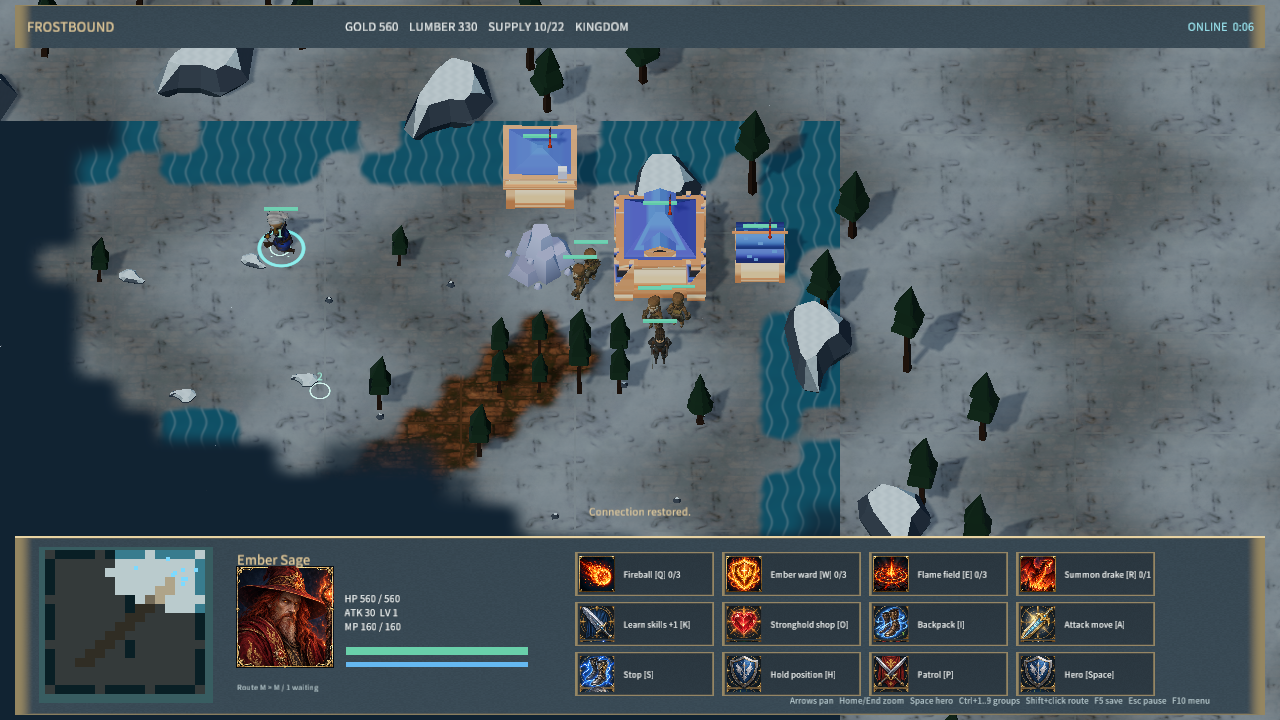
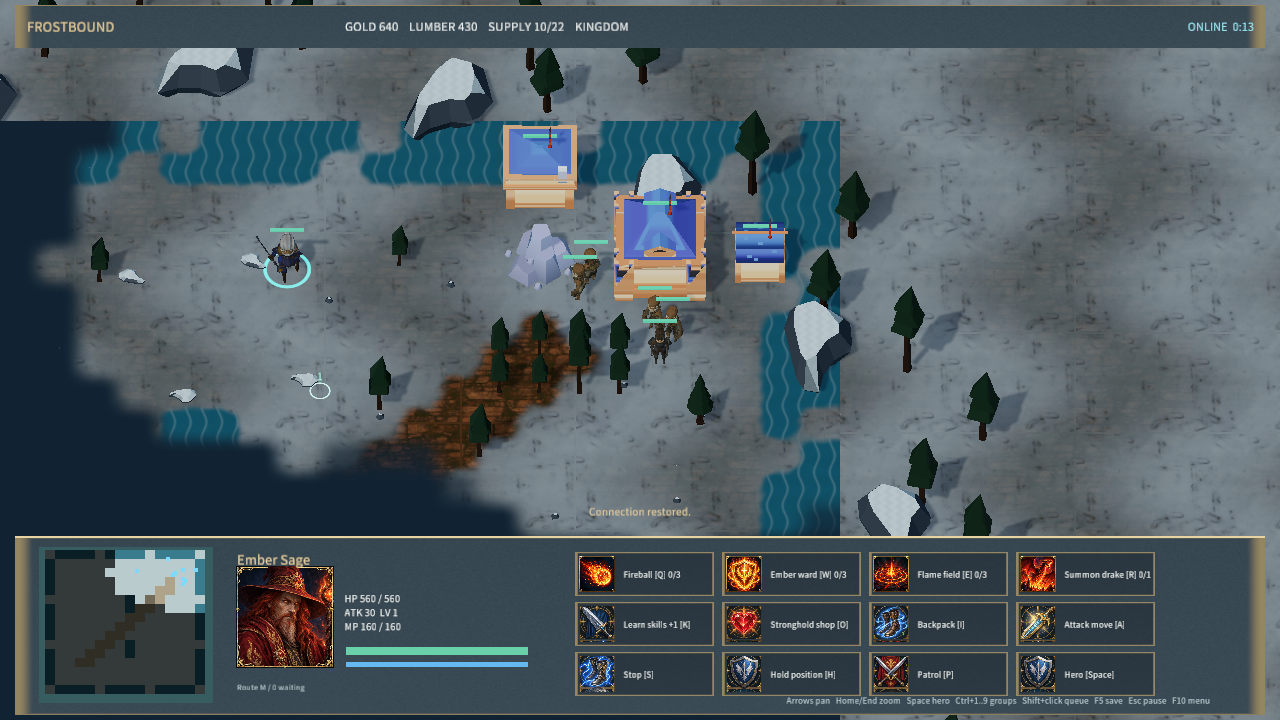
feat(frostbound): queue worker construction and gathering jobs

diff --git a/samples/frostbound-realms/game/simulation.js b/samples/frostbound-realms/game/simulation.js
@@ -222,13 +222,16 @@ var Frost = (() => {
   }
   function movementRadius(u){return types[u.kind].flying?1:types[u.kind].attack==='siege'?.9:types[u.kind].model==='knight'?.7:.5;}
   // ponytail: each selected unit scans the 32x32 grid (max 40); share reachability fields when maps grow.
+  function orderPoint(s,u,o){return o?.type==='gather'?s.resources[o.resource]||u:['construct','repair'].includes(o?.type)?s.units.find(b=>b.id===o.target)||u:Number.isFinite(o?.x)&&Number.isFinite(o?.z)?o:u;}
+  function queueable(u,o){return ['move','attackMove'].includes(o?.type)||u.kind==='worker'&&['build','construct','repair','gather'].includes(o?.type);}
+  function queueError(us){return us.some(u=>u.consumed||u.order&&!queueable(u,u.order))?'Finish this order before queuing work':us.some(u=>(u.waypoints?.length||0)>=8)?'Waypoint queue is full (8 waiting)':null;}
   function formation(s,units,x,z,append=false){
     const orders=new Map();
     for(const flying of [false,true]){
-      const members=units.filter(u=>!!types[u.kind].flying===flying).map(u=>{const p=append&&(u.waypoints?.at(-1)||u.order);return p?{...u,x:p.x,z:p.z}:u;});if(!members.length)continue;
+      const members=units.filter(u=>!!types[u.kind].flying===flying).map(u=>{const p=append&&orderPoint(s,u,u.waypoints?.at(-1)||u.order);return p?{...u,x:p.x,z:p.z}:u;});if(!members.length)continue;
       const cx=members.reduce((n,u)=>n+u.x,0)/members.length,cz=members.reduce((n,u)=>n+u.z,0)/members.length,d=Math.hypot(x-cx,z-cz),fx=d>.01?(x-cx)/d:0,fz=d>.01?(z-cz)/d:-1,columns=Math.ceil(Math.sqrt(members.length)),rows=Math.ceil(members.length/columns),spacing=Math.max(...members.map(movementRadius))*2+.6;
       members.sort((a,b)=>unitType(a).range-unitType(b).range||Math.round((((b.x-cx)*fx+(b.z-cz)*fz)-((a.x-cx)*fx+(a.z-cz)*fz))*1e6)||a.id-b.id);
-      const reserved=s.units.filter(u=>u.hp>0&&!u.inside&&u.speed&&u.team===members[0].team&&!units.some(v=>v.id===u.id)&&!!types[u.kind].flying===flying).map(u=>{const p=u.waypoints?.at(-1)||(['move','attackMove','patrol'].includes(u.order?.type)?u.order:u);return {x:p.x,z:p.z,r:movementRadius(u)};});
+      const reserved=s.units.filter(u=>u.hp>0&&!u.inside&&u.speed&&u.team===members[0].team&&!units.some(v=>v.id===u.id)&&!!types[u.kind].flying===flying).map(u=>{const p=orderPoint(s,u,u.waypoints?.at(-1)||(['move','attackMove','patrol'].includes(u.order?.type)?u.order:u));return {x:p.x,z:p.z,r:movementRadius(u)};});
       for(let i=0;i<members.length;i++){
         const u=members[i],row=Math.floor(i/columns),width=Math.min(columns,members.length-row*columns),side=(i%columns-(width-1)/2)*spacing,forward=((rows-1)/2-row)*spacing,ideal=[clamp(x+fz*side+fx*forward,-30,30),clamp(z-fx*side+fz*forward,-30,30)],r=movementRadius(u),search=flying?null:routeSearch(s,u),cells=flying?Array.from({length:1024},(_,j)=>j):search.cells;
         const available=(px,pz)=>Math.abs(px)<=30&&Math.abs(pz)<=30&&(flying||!solid(s,px,pz,u.id,u.team))&&reserved.every(v=>Math.hypot(px-v.x,pz-v.z)>=r+v.r+.3);
@@ -308,16 +311,15 @@ var Frost = (() => {
   function pay(s,team,gold,wood=0){const t=s.teams[team];if(!t||t.gold<gold||t.wood<wood)return false;t.gold-=gold;t.wood-=wood;return true;}
   function command(s,team,c){
     if(s.winner!==null||!c||![0,1].includes(team))return 'Match is finished';
-    if(c.append!==undefined&&typeof c.append!=='boolean'||c.append&&!['move','attackMove'].includes(c.type))return 'Only movement orders can be queued';
-    const own=s.units.filter(u=>u.team===team&&u.hp>0&&!u.inside&&Array.isArray(c.ids)&&c.ids.slice(0,40).includes(u.id)),u=own[0],point=Number.isFinite(c.x)&&Number.isFinite(c.z)&&Math.abs(c.x)<=30&&Math.abs(c.z)<=30;
+    if(c.append!==undefined&&typeof c.append!=='boolean'||c.append&&!['move','attackMove','build','construct','repair','gather'].includes(c.type))return 'Only movement and worker jobs can be queued';
+    const own=s.units.filter(u=>u.team===team&&u.hp>0&&(!u.inside||c.append&&u.kind==='worker'&&!u.consumed)&&Array.isArray(c.ids)&&c.ids.slice(0,40).includes(u.id)),u=own[0],point=Number.isFinite(c.x)&&Number.isFinite(c.z)&&Math.abs(c.x)<=30&&Math.abs(c.z)<=30;
     if(['move','attackMove','patrol','hold','attack','gather','stop'].includes(c.type)){
       if(['move','attackMove','patrol'].includes(c.type)&&!point)return 'Invalid destination';
       const target=s.units.find(v=>v.id===c.target&&v.hp>0);if(c.type==='attack'&&(!target||target.team===team||!isVisible(s,team,target)))return 'Target is not visible';
       if(c.type==='attack'&&!own.some(v=>canAttack(v,target)))return 'Selected units cannot attack this target';
       if(c.type==='gather'&&(!Number.isInteger(c.resource)||!s.resources[c.resource]||s.resources[c.resource].kind==='camp'))return 'Select a resource';
-      const moving=['move','attackMove','patrol'].includes(c.type),members=moving||c.type==='hold'?own.filter(v=>v.speed&&v.built===1):own;
-      if(c.append&&members.some(v=>v.order&&!['move','attackMove'].includes(v.order.type)))return 'Issue a move before adding waypoints';
-      if(c.append&&members.some(v=>(v.waypoints?.length||0)>=8))return 'Waypoint queue is full (8 waiting)';
+      const moving=['move','attackMove','patrol'].includes(c.type),members=c.type==='gather'?own.filter(v=>v.kind==='worker'):moving||c.type==='hold'?own.filter(v=>v.speed&&v.built===1):own;if(c.type==='gather'&&!members.length)return 'Select a worker';
+      if(c.append){const error=queueError(members);if(error)return error;}
       const slots=moving?formation(s,members,c.x,c.z,c.append):null;
       if(moving&&!slots)return 'No reachable space for this formation';
       members.forEach(v=>{
@@ -329,6 +331,7 @@ var Frost = (() => {
     }
     if(c.type==='build'){
       if(s.mode==='moba'||!u||u.kind!=='worker'||!['hall','farm','barracks','tower','frosttower','flametower','altar','workshop'].includes(c.kind)||!point)return 'Select a worker and a building site';
+      if(c.append){const error=queueError([u]);if(error)return error;if(!flatSite(s.map,c.x,c.z,types[c.kind].radius))return 'Building footprint requires flat dry ground';const next={type:'build',kind:c.kind,x:c.x,z:c.z};if(u.order)u.waypoints.push(next);else{u.order=next;u.path=[];u.pathAt=-100;}return null;}
       if(c.kind==='workshop'&&(s.mode!=='skirmish'||s.teams[team].tier<2))return 'Siege workshop requires stronghold tier 2';
       if(s.mode==='skirmish'&&s.teams[team].faction===3&&c.kind!=='hall'&&!s.units.some(v=>v.team===team&&v.hp>0&&v.built===1&&['hall','altar'].includes(v.kind)&&distance(v,c)<=(v.kind==='hall'?18:12)))return 'Summon inside stronghold or altar territory';
       const d=types[c.kind];if(!flatSite(s.map,c.x,c.z,d.radius))return 'Building footprint requires flat dry ground';if(distance(u,c)>15||solid(s,c.x,c.z)||s.units.some(v=>v.hp>0&&!types[v.kind].speed&&distance(v,c)<(types[v.kind].radius||1)+d.radius+.8))return 'Site blocked or too far from worker';
@@ -340,7 +343,8 @@ var Frost = (() => {
     if(c.type==='construct'||c.type==='repair'){
       const b=s.units.find(v=>v.id===c.target&&v.team===team&&v.hp>0&&!types[v.kind].speed),workers=own.filter(v=>v.kind==='worker');
       if(!b||!workers.length||c.type==='construct'&&(b.built===1||b.construction?.started&&b.construction.style!=='work')||c.type==='repair'&&(b.built<1||b.hp>=b.maxHp))return 'Select workers and a friendly construction site or damaged completed building';
-      for(const w of workers)assignWork(w,b,c.type);return null;
+      if(c.append){const error=queueError(workers);if(error)return error;}
+      for(const w of workers)if(c.append&&w.order)w.waypoints.push({type:c.type,target:b.id});else assignWork(w,b,c.type);return null;
     }
     if(c.type==='cancelBuild'){
       if(!u||u.built===1||!u.construction)return 'Select an unfinished building';const c=u.construction;s.teams[team].gold+=Math.floor(c.paidGold*.75);s.teams[team].wood+=Math.floor(c.paidWood*.75);u.hp=0;finishWork(s,u,true);hallDefeat(s,u);return null;
@@ -410,14 +414,18 @@ var Frost = (() => {
   }
   function hallDefeat(s,b){if(b.kind==='hall'&&s.mode!=='td'&&(s.mode!=='skirmish'||!s.units.some(v=>v.team===b.team&&v.kind==='hall'&&v.hp>0)))s.winner=1-b.team;}
   function assignWork(w,b,type){if(!w.workResume&&w.order?.type==='gather')w.workResume=clone(w.order);w.order={type,target:b.id};w.waypoints=[];w.path=[];w.pathAt=-100;}
-  function releaseWorker(w){delete w.inside;delete w.consumed;w.order=w.workResume||null;delete w.workResume;w.path=[];w.pathAt=-100;}
-  function finishWork(s,b,cancel=false){for(const w of s.units)if(w.inside===b.id||['construct','repair'].includes(w.order?.type)&&w.order.target===b.id){if(w.consumed&&!cancel)w.hp=0;releaseWorker(w);}delete b.construction;}
+  function advanceOrder(s,u){
+    u.order=null;u.path=[];u.pathAt=-100;
+    while(u.hp>0&&u.waypoints.length){const next=u.waypoints.shift();if(['move','attackMove','build'].includes(next.type)){u.order=next;return;}const pending=u.waypoints,error=command(s,u.team,{...next,ids:[u.id]});u.waypoints=pending;if(!error)return;s.announcements[u.team]='Queued '+next.type+' skipped: '+error;}
+  }
+  function releaseWorker(s,w){delete w.inside;delete w.consumed;w.order=w.hp>0?w.workResume||null:null;delete w.workResume;w.path=[];w.pathAt=-100;if(w.hp<=0)w.waypoints=[];else if(w.waypoints.length)advanceOrder(s,w);}
+  function finishWork(s,b,cancel=false){for(const w of s.units)if(w.inside===b.id||['construct','repair'].includes(w.order?.type)&&w.order.target===b.id){if(w.consumed&&!cancel)w.hp=0;releaseWorker(s,w);}delete b.construction;}
   function work(s,w){
-    const b=s.units.find(v=>v.id===w.order.target&&v.team===w.team&&v.hp>0&&!types[v.kind].speed);if(!b||w.order.type==='construct'&&b.built===1||w.order.type==='repair'&&(b.built<1||b.hp>=b.maxHp)){releaseWorker(w);return;}
+    const b=s.units.find(v=>v.id===w.order.target&&v.team===w.team&&v.hp>0&&!types[v.kind].speed);if(!b||w.order.type==='construct'&&b.built===1||w.order.type==='repair'&&(b.built<1||b.hp>=b.maxHp)){releaseWorker(s,w);return;}
     if(!move(s,w,b.x,b.z,types[b.kind].radius+1.1))return;
     if(w.order.type==='repair'){const d=types[b.kind],hp=Math.min(b.maxHp-b.hp,b.maxHp*DT/(d.time*1.5));if(pay(s,w.team,d.gold*hp/b.maxHp*.5,d.wood*hp/b.maxHp*.5))b.hp+=hp;return;}
-    const c=b.construction;if(!c){releaseWorker(w);return;}if(c.started&&c.style!=='work'){releaseWorker(w);return;}
-    c.started=true;if(c.style==='inside'||c.style==='growth'&&!['farm','altar'].includes(b.kind)){w.inside=b.id;w.consumed=c.style==='growth';}else if(c.style!=='work')releaseWorker(w);
+    const c=b.construction;if(!c){releaseWorker(s,w);return;}if(c.started&&c.style!=='work'){releaseWorker(s,w);return;}
+    c.started=true;if(c.style==='inside'||c.style==='growth'&&!['farm','altar'].includes(b.kind)){w.inside=b.id;w.consumed=c.style==='growth';if(w.consumed){if(w.waypoints.length)s.announcements[w.team]='Worker consumed by living construction; queued work cleared';w.waypoints=[];}}else if(c.style!=='work')releaseWorker(s,w);
   }
   function construct(s,b){
     const c=b.construction;if(!c?.started)return;let rate=1;
@@ -454,8 +462,8 @@ var Frost = (() => {
   function visibility(s){
     for(let t=0;t<2;t++){const vis=Array(1024).fill(0);for(const u of s.units)if(u.team===t&&u.hp>0&&!u.inside){const [cx,cz]=cell(u.x,u.z),r=u.kind==='tower'?7:6;for(let z=Math.max(0,cz-r);z<=Math.min(31,cz+r);z++)for(let x=Math.max(0,cx-r);x<=Math.min(31,cx+r);x++)if((x-cx)**2+(z-cz)**2<=r*r)vis[z*32+x]=1;}s.visible[t]=vis;for(let i=0;i<1024;i++)if(vis[i])s.explored[t][i]=1;}
   }
-  function gather(s,u){let r=s.resources[u.order.resource];if(!r){u.order=null;return;}if(r.amount<=0&&!u.cargo){const next=s.resources.filter(v=>v.kind===r.kind&&v.amount>0).sort((a,b)=>distance(u,a)-distance(u,b))[0];if(!next){u.order=null;return;}u.order.resource=s.resources.indexOf(next);r=next;}const hall=s.units.filter(v=>v.team===u.team&&v.kind==='hall'&&v.hp>0&&v.built===1).sort((a,b)=>distance(u,a)-distance(u,b))[0];if(!hall)return;const returning=u.cargo>=20||u.cargo>0&&(r.amount<=0||u.cargoKind&&u.cargoKind!==r.kind),target=returning?hall:r;
-    const reach=returning?4:3;if(distance(u,target)>reach||!traversable(s.map,u.x,u.z,target.x,target.z)){move(s,u,target.x,target.z,reach-.1);return;}if(returning){s.teams[u.team][(u.cargoKind||r.kind)==='mine'?'gold':'wood']+=u.cargo;u.cargo=0;delete u.cargoKind;}else if(u.cd<=0){const take=Math.min(5,r.amount);u.cargo+=take;u.cargoKind=r.kind;r.amount-=take;u.cd=.65;}
+  function gather(s,u){let r=s.resources[u.order.resource];if(!r){advanceOrder(s,u);return;}if(r.amount<=0&&!u.cargo){const next=s.resources.filter(v=>v.kind===r.kind&&v.amount>0).sort((a,b)=>distance(u,a)-distance(u,b))[0];if(!next){advanceOrder(s,u);return;}u.order.resource=s.resources.indexOf(next);r=next;}const hall=s.units.filter(v=>v.team===u.team&&v.kind==='hall'&&v.hp>0&&v.built===1).sort((a,b)=>distance(u,a)-distance(u,b))[0];if(!hall){if(u.waypoints.length){s.announcements[u.team]='Queued gathering skipped: no completed stronghold';advanceOrder(s,u);}return;}const returning=u.cargo>=20||u.cargo>0&&(r.amount<=0||u.cargoKind&&u.cargoKind!==r.kind),target=returning?hall:r;
+    const reach=returning?4:3;if(distance(u,target)>reach||!traversable(s.map,u.x,u.z,target.x,target.z)){move(s,u,target.x,target.z,reach-.1);return;}if(returning){s.teams[u.team][(u.cargoKind||r.kind)==='mine'?'gold':'wood']+=u.cargo;u.cargo=0;delete u.cargoKind;if(u.waypoints.length)advanceOrder(s,u);}else if(u.cd<=0){const take=Math.min(5,r.amount);u.cargo+=take;u.cargoKind=r.kind;r.amount-=take;u.cd=.65;}
   }
   function ai(s,t){
     const team=s.teams[t],us=s.units.filter(u=>u.team===t&&u.hp>0),base=s.map.spawns[t],foe=s.map.spawns[1-t],worker=us.find(u=>u.kind==='worker'&&!u.inside&&!['construct','repair'].includes(u.order?.type));
@@ -498,6 +506,9 @@ var Frost = (() => {
       if(u.queue.length){u.queue[0].left=Math.max(0,u.queue[0].left-DT);if(u.queue[0].left===0&&s.units.length<LIMIT){let p=null;for(let a=0;a<12;a++){const x=u.x+Math.cos(a*Math.PI/6)*4,z=u.z+Math.sin(a*Math.PI/6)*4;if(Math.abs(x)<=30&&Math.abs(z)<=30&&(types[u.queue[0].kind].flying||!solid(s,x,z))&&s.units.every(v=>v.hp<=0||v.inside||!types[v.kind].speed||!!types[v.kind].flying!==!!types[u.queue[0].kind].flying||Math.hypot(x-v.x,z-v.z)>=movementRadius(v)+movementRadius({kind:u.queue[0].kind})+.05)){p=[x,z];break;}}if(p){const q=u.queue.shift(),v=spawn(s,q.kind,u.team,...p);if(u.rally)v.order={type:v.kind==='worker'?'move':'attackMove',...u.rally};}}}
       if(u.stun>0)continue;
       if(u.order?.type==='pickup'){const d=s.loot.find(d=>d.id===u.order.target);if(!d||!s.visible[u.team][index(d.x,d.z)]||u.inventory.length>=6&&!d.relic){u.order=null;u.path=[];}else if(distance(u,d)<=2.5&&traversable(s.map,u.x,u.z,d.x,d.z)){pickup(s,u,d);u.order=null;u.path=[];}else move(s,u,d.x,d.z,2.25);continue;}
+      if(u.kind==='worker'&&u.order?.type==='build'){
+        const o=u.order;if(distance(u,o)>15){move(s,u,o.x,o.z,types[o.kind].radius+1.1);continue;}const pending=u.waypoints,error=command(s,u.team,{...o,ids:[u.id]});u.waypoints=pending;if(error){s.announcements[u.team]='Queued build skipped: '+error;advanceOrder(s,u);}else if(!u.order)advanceOrder(s,u);continue;
+      }
       if(u.kind==='worker'&&['construct','repair'].includes(u.order?.type)){work(s,u);continue;}
       if(u.kind==='worker'&&u.order?.type==='gather'){gather(s,u);continue;}
       if(u.td){const p=u.route[u.waypoint];if(!p){u.hp=0;s.lives-=u.tdBoss?5:1;if(s.lives<=0)s.winner=1;continue;}if(move(s,u,p[0],p[1],u.waypoint===u.route.length-1?4.5:1.3))u.waypoint++;continue;}
@@ -510,7 +521,7 @@ var Frost = (() => {
       }
       else if(u.order&&['move','attackMove','patrol'].includes(u.order.type)){
         if(!types[u.kind].flying&&solid(s,u.order.x,u.order.z,u.id,u.team)||s.units.some(v=>v.id!==u.id&&v.team===u.team&&v.hp>0&&!v.inside&&types[v.kind].speed&&(!v.order||v.order.type==='hold')&&!!types[v.kind].flying===!!types[u.kind].flying&&Math.hypot(v.x-u.order.x,v.z-u.order.z)<movementRadius(u)+movementRadius(v)+.1)){const p=formation(s,[u],u.order.x,u.order.z)?.get(u.id);if(p){u.order.x=p[0];u.order.z=p[1];u.path=[];u.pathAt=-100;}}
-        if(move(s,u,u.order.x,u.order.z,.12)){if(u.order.type==='patrol'){const o=u.order;[o.x,o.z,o.fromX,o.fromZ]=[o.fromX,o.fromZ,o.x,o.z];}else u.order=u.waypoints?.shift()||null;u.path=[];u.pathAt=-100;}
+        if(move(s,u,u.order.x,u.order.z,.12)){if(u.order.type==='patrol'){const o=u.order;[o.x,o.z,o.fromX,o.fromZ]=[o.fromX,o.fromZ,o.x,o.z];}else advanceOrder(s,u);u.path=[];u.pathAt=-100;}
       }
       else if(!u.order&&u.route){const p=u.route[u.waypoint];if(p&&move(s,u,p[0],p[1],1.5))u.waypoint++;}
       else if(!u.order&&u.home&&distance(u,{x:u.home[0],z:u.home[1]})>3)move(s,u,...u.home,2);
@@ -573,8 +584,8 @@ var Frost = (() => {
       if(u.order?.type==='pickup'&&(u.kind!=='hero'||!Number.isSafeInteger(u.order.target)||u.order.target<1||u.order.target>s.serial))throw Error('Invalid saved pickup order');
       if(u.order?.type==='patrol'&&(!types[u.kind].speed||![u.order.x,u.order.z,u.order.fromX,u.order.fromZ].every(v=>Number.isFinite(v)&&Math.abs(v)<=30))||u.order?.type==='hold'&&!types[u.kind].speed)throw Error('Invalid saved patrol or hold order');
       if(u.waypoints===undefined)u.waypoints=[];
-      const waypoint=p=>p&&['move','attackMove'].includes(p.type)&&[p.x,p.z].every(v=>Number.isFinite(v)&&Math.abs(v)<=30);
-      if(!Array.isArray(u.waypoints)||u.waypoints.length>8||!u.waypoints.every(waypoint)||u.waypoints.length&&(!types[u.kind].speed||u.hp<=0||!waypoint(u.order)))throw Error('Invalid saved waypoint queue');
+      const waypoint=p=>p&&(['move','attackMove'].includes(p.type)?[p.x,p.z].every(v=>Number.isFinite(v)&&Math.abs(v)<=30):u.kind==='worker'&&(p.type==='build'?['hall','farm','barracks','tower','frosttower','flametower','altar','workshop'].includes(p.kind)&&[p.x,p.z].every(v=>Number.isFinite(v)&&Math.abs(v)<=30):p.type==='gather'?Number.isInteger(p.resource)&&p.resource>=0&&raw.resources?.[p.resource]&&raw.resources[p.resource].kind!=='camp':['construct','repair'].includes(p.type)&&Number.isSafeInteger(p.target)&&p.target>0&&p.target<=s.serial));
+      if(!Array.isArray(u.waypoints)||u.waypoints.length>8||!u.waypoints.every(waypoint)||u.order?.type==='build'&&!waypoint(u.order)||u.waypoints.length&&(!types[u.kind].speed||u.hp<=0||u.consumed||!waypoint(u.order)))throw Error('Invalid saved waypoint queue');
       if(u.built<0||u.built>1)throw Error('Invalid saved construction progress');
       if(u.built<1&&!u.construction)u.construction={style:'legacy',started:true,paidGold:0,paidWood:0};
       if(u.construction){const c=u.construction,d=types[u.kind];if(u.built===1||d.speed||!['work','inside','growth','summon','legacy'].includes(c.style)||typeof c.started!=='boolean'||![c.paidGold,c.paidWood].every(v=>finite(v)&&v>=0)||c.paidGold>d.gold||c.paidWood>d.wood)throw Error('Invalid saved construction');}
@@ -600,6 +611,6 @@ var Frost = (() => {
     for(const t of s.teams){t.tier??=1;t.research??=0;t.heroClass??=0;if(!validHero(t.heroClass)||!Number.isInteger(t.tier)||t.tier<1||t.tier>3||!Number.isFinite(t.research)||t.research<0||t.research>40)throw Error('Invalid saved technology');}s.events=[];s.pendingEvents=[];s.visible=[[],[]];if(!Array.isArray(s.explored)||s.explored.length!==2||s.explored.some(a=>!Array.isArray(a)||a.length!==1024))throw Error('Invalid saved fog');visibility(s);return s;
   }
   function publicState(s,team){const state=clone(s);delete state.pendingEvents;delete state.tdPending;state.zones=state.zones.filter(z=>s.visible[team][index(z.x,z.z)]);state.map.units=[];state.map.triggers=[];state.map.regions=[];state.triggered=[];delete state.triggerState;state.announcements[1-team]='';state.units=state.units.filter(u=>u.team===team||isVisible(s,team,u));for(const u of state.units)if(u.kind==='hall')u.upgradeTier=s.teams[u.team]?.tier||1;for(const u of state.units)if(u.team!==team){u.queue=[];delete u.rally;delete u.construction;delete u.workResume;delete u.inside;delete u.consumed;u.order=null;delete u.waypoints;u.path=[];delete u.dest;}state.events=state.events.filter(e=>s.visible[team][index(e.x,e.z)]);state.teams[1-team]={faction:s.teams[1-team].faction};state.resources=state.resources.map(r=>({...r,amount:s.visible[team][index(r.x,r.z)]?r.amount:1}));state.loot=state.loot.filter(r=>s.visible[team][index(r.x,r.z)]);state.visible=[team===0?s.visible[0]:[],team===1?s.visible[1]:[]];state.explored=[team===0?s.explored[0]:[],team===1?s.explored[1]:[]];return state;}
-  return {DT,LIMIT,SIZE,types,heroes,validHero,unitType,factions,items,itemValue,armies,siege,flyers,canAttack,weaponDamage,trainable,questNames,clamp,clone,cell,index,distance,elevation,tileHeight,terrainEdge,traversable,flatSite,unitHeight,attackClear,highlandMap,defaultMap,siegeMap,eventMap,validateMap,removeTrigger,removeRegion,create,restore,spawn,command,tick,population,isVisible,visibility,path,solid,publicState,lanePath,tdPath};
+  return {DT,LIMIT,SIZE,types,heroes,validHero,unitType,factions,items,itemValue,armies,siege,flyers,orderPoint,canAttack,weaponDamage,trainable,questNames,clamp,clone,cell,index,distance,elevation,tileHeight,terrainEdge,traversable,flatSite,unitHeight,attackClear,highlandMap,defaultMap,siegeMap,eventMap,validateMap,removeTrigger,removeRegion,create,restore,spawn,command,tick,population,isVisible,visibility,path,solid,publicState,lanePath,tdPath};
 })();
 if(typeof module!=='undefined')module.exports=Frost;

diff --git a/samples/frostbound-realms/game/client.js b/samples/frostbound-realms/game/client.js
@@ -19,7 +19,7 @@ var FrostClient=(()=>{
   function stopNetwork(){if(connected)engine.network.send({type:'leave'});engine.network.close();online=false;connected=false;room=null;code='';token='';}
   function solo(kind,map){stopNetwork();state=S.create(kind,{map,...(map?{}:{factions:[faction,(faction+1)%4],heroes:[heroClass,(heroClass+1)%S.heroes.length]})});team=0;mode='playing';heroPanel='skills';paused=false;selected=state.units.filter(u=>u.team===0&&u.kind==='hero').map(u=>u.id);camera=state.map.spawns[0].map(v=>S.clamp(v,-18,18));zoom=16;accumulator=0;lastFrame=-1;armed=null;groups={};notice='';selectHero();}
   function title(){stopNetwork();mode='title';state=S.create();camera=[0,0];zoom=27;paused=false;selected=[];armed=null;returnEditor=false;}
-  function order(command){const c={ids:[...selected],...command};if(['move','attackMove'].includes(c.type)&&(engine.input?.keys||[]).some(k=>k==='ShiftLeft'||k==='ShiftRight'))c.append=true;if(online){if(connected)engine.network.send({type:'order',seq:++seq,command:c});else message('Reconnecting; orders are paused');}else{const error=S.command(state,team,c);if(error)message(error);else{sound('order');if(Number.isFinite(c.x)&&Number.isFinite(c.z))commandMarker={x:c.x,z:c.z,until:time+1.2};}}}
+  function order(command){const c={ids:[...selected],...command};if(['move','attackMove','build','construct','repair','gather'].includes(c.type)&&(engine.input?.keys||[]).some(k=>k==='ShiftLeft'||k==='ShiftRight'))c.append=true;if(online){if(connected)engine.network.send({type:'order',seq:++seq,command:c});else message('Reconnecting; orders are paused');}else{const error=S.command(state,team,c);if(error)message(error);else{sound('order');if(Number.isFinite(c.x)&&Number.isFinite(c.z))commandMarker={x:c.x,z:c.z,until:time+1.2};}}}
   function selectHero(){const h=state.units.find(u=>u.team===team&&u.kind==='hero'&&u.hp>0);if(h){selected=[h.id];camera=[h.x+3,h.z+4];}}
   function enterEditor(){stopNetwork();returnEditor=false;mode='editor';paused=false;selected=[];editorState();camera=[0,0];zoom=29;undo=[];brush=0;message('Paint terrain / place objects. F5 save, F6 load, F7 play your map.');}
   function editorState(){editMap=S.validateMap(editMap);state=S.create(editMap.mode,{map:editMap});triggerIndex=Math.min(triggerIndex,editMap.triggers.length-1);regionIndex=Math.min(regionIndex,editMap.regions.length-1);lastFrame=-1;}
@@ -59,7 +59,7 @@ var FrostClient=(()=>{
   function connect(action){stopNetwork();online=true;intent=action;mode='connecting';retry=time;reconnectUntil=time+8;message('Connecting to '+address);}
   function receive(){
     for(const e of engine.network.poll()){
-      if(e.type==='connected'){connected=true;lastReceive=time;engine.network.send({type:'hello',protocol:6,name:'Commander'});}
+      if(e.type==='connected'){connected=true;lastReceive=time;engine.network.send({type:'hello',protocol:7,name:'Commander'});}
       if(e.type==='closed'){connected=false;if(online&&token){mode='reconnecting';intent='resume';retry=time+.5;reconnectUntil=time+12;message('Connection lost. Reconnecting...');}else if(online){online=false;mode='network';message('Connection failed. Start server.mjs and check the address.');}}
       if(e.type!=='message')continue;const m=e.data;lastReceive=time;
       if(m.type==='welcome'){
@@ -178,7 +178,7 @@ var FrostClient=(()=>{
     if(input.pressedButtons.includes(0)){
       const group=mode==='title'?'menu':['playing','editor'].includes(mode)?'hud':'modal',b=FrostButtons.find(b=>b.group===group&&hovered(b,p)&&(!b.id.startsWith('action')||actions[Number(b.id.slice(6))]));if(b){action(b.id);return;}
       if(['playing','editor'].includes(mode)&&p.x>-604&&p.x<-420&&p.y>185&&p.y<347){camera=[S.clamp((p.x+594)/160*64-32,-25,25),S.clamp((p.y-190)/144*64-32,-25,25)];return;}
-      if(['playing','editor'].includes(mode)&&p.y<175&&p.y>-305&&!paused){if(mode==='editor'){paintCell=-1;paintPointer=[p.x,p.y];paint(w);}else if(armed){if(armed.type==='repair'){const b=state.units.find(u=>u.team===team&&u.hp>0&&!S.types[u.kind].speed&&Math.hypot(screenWorld(u,input).x-p.x,screenWorld(u,input).y-p.y)<28);if(b)order({type:b.built<1?'construct':'repair',target:b.id});else message('Select a friendly building');}else order({...armed,x:w.x,z:w.z});armed=null;}else drag={start:p,end:p};}
+      if(['playing','editor'].includes(mode)&&p.y<175&&p.y>-305&&!paused){if(mode==='editor'){paintCell=-1;paintPointer=[p.x,p.y];paint(w);}else if(armed){if(armed.type==='repair'){const b=state.units.find(u=>u.team===team&&u.hp>0&&!S.types[u.kind].speed&&Math.hypot(screenWorld(u,input).x-p.x,screenWorld(u,input).y-p.y)<28);if(b)order({type:b.built<1?'construct':'repair',target:b.id});else message('Select a friendly building');}else order({...armed,x:w.x,z:w.z});if(armed.type!=='build'||!held('ShiftLeft')&&!held('ShiftRight'))armed=null;}else drag={start:p,end:p};}
     }
     if(mode==='editor'&&![2,4].includes(editorPage)&&input.buttons.includes(0)&&p.y<175&&p.y>-305&&(!paintPointer||Math.hypot(p.x-paintPointer[0],p.y-paintPointer[1])>2)){paintPointer=[p.x,p.y];paint(w);}
     if(drag){drag.end=p;if(input.releasedButtons.includes(0)){
@@ -232,9 +232,9 @@ var FrostClient=(()=>{
     const markers=editing?map.triggers:state.loot||[];for(let i=0;i<S.LIMIT;i++){const m=markers[i];transform('Objective '+i,m&&(editing||state.visible[team]?.[S.index(m.x,m.z)])?[m.x,S.elevation(map,m.x,m.z)+.4+Math.sin(time*2)*.15,m.z]:hidden,[.8,.8,.8],[0,Math.sin(time/2),0,Math.cos(time/2)]);}
     label('Objective text',editing?'[V] '+['Terrain & objects','Units — click ground to place','Triggers / Setup, Conditions, Actions / N name or text / F8 Supply Road','Players & data','Regions / click to select, place, resize or move / N name','Elevation / choose height then ramp direction / F9 Highland Pass'][editorPage]:state.mode==='rpg'?'QUEST '+(state.quest.stage+1)+'/4: '+(S.questNames[state.quest.stage]||'Covenant restored')+(state.quest.stage===0?' ('+state.quest.scouts+'/3)':''):state.announcements?.[team]||state.announcement||'');show('Objective text',world);
     const t=state.teams[team],pop=S.population(state,team),u=state.units.find(u=>selected.includes(u.id));
-    const route=playing&&u?.team===team?(u.order?.type==='patrol'?[u.order,{type:'patrol',x:u.order.fromX,z:u.order.fromZ}]:['move','attackMove'].includes(u.order?.type)?[u.order,...(u.waypoints||[])]:[]):[];
+    const route=playing&&u?.team===team?(u.order?.type==='patrol'?[u.order,{type:'patrol',x:u.order.fromX,z:u.order.fromZ}]:['move','attackMove','build','construct','repair','gather'].includes(u.order?.type)?[u.order,...(u.waypoints||[])].map(o=>({...o,...S.orderPoint(state,u,o),type:o.type})):[]):[];
     for(let i=0;i<9;i++){
-      const p=route[i],color=p?.type==='patrol'?[.55,.75,1,1]:p?.type==='attackMove'?[1,.4,.25,1]:[.4,1,.8,1];transform('Waypoint '+i,p?[p.x,S.elevation(map,p.x,p.z)+.07,p.z]:hidden,[1.1,.015,1.1]);if(!p)show('Waypoint label '+i,false);
+      const p=route[i],color=p?.type==='patrol'?[.55,.75,1,1]:p?.type==='attackMove'?[1,.4,.25,1]:['build','construct','repair'].includes(p?.type)?[1,.8,.25,1]:p?.type==='gather'?[.4,.7,1,1]:[.4,1,.8,1];transform('Waypoint '+i,p?[p.x,S.elevation(map,p.x,p.z)+.07,p.z]:hidden,[1.1,.015,1.1]);if(!p)show('Waypoint label '+i,false);
       if(p){set('Waypoint '+i,'MaterialPropertyBlock',{override_base_color:true,base_color:color});const screen=screenWorld({kind:u.kind,team:u.team,...p,y:S.elevation(map,p.x,p.z)},input),r=authored['Waypoint label '+i].RectTransform;show('Waypoint label '+i,Math.abs(screen.x)<626&&screen.y>-290&&screen.y<165);set('Waypoint label '+i,'RectTransform',{...r,anchored_position:[screen.x,screen.y-16]});label('Waypoint label '+i,String(i+1),color);}
     }
 
@@ -243,8 +243,8 @@ var FrostClient=(()=>{
     transform('Rally marker',world&&u?.rally?[u.rally.x,S.elevation(map,u.rally.x,u.rally.z)+.2,u.rally.z]:hidden,[2,2,2]);
     label('Selection title',editing?(editorPage===2?(map.triggers[triggerIndex]?.name||'TRIGGER EDITOR'):editorPage===4?(map.regions[regionIndex]?.name||'REGION EDITOR'):'WORLD EDITOR'):selected.length>1?selected.length+' units selected':u?FrostVisual.name(state,u):'Your command awaits');
     label('Selection stats',editing?(editorPage===5?'Height '+heightBrush+' / '+(heightBrush*2)+' world units\n'+(rampBrush?'Ramp '+['','East','West','South','North'][rampBrush]:'Level ground')+'\nF9 Highland Pass / F7 play':editorPage===2&&map.triggers[triggerIndex]?map.triggers[triggerIndex].conditions.length+' conditions / '+map.triggers[triggerIndex].logic+'\n'+map.triggers[triggerIndex].actions.length+' actions / '+map.triggers[triggerIndex].limit+' runs\n'+(map.triggers[triggerIndex].after<0?'No prerequisite':'After #'+(map.triggers[triggerIndex].after+1)):editorPage===4&&map.regions[regionIndex]?'Width '+map.regions[regionIndex].width+' / Height '+map.regions[regionIndex].height+'\nCenter '+map.regions[regionIndex].x+', '+map.regions[regionIndex].z:'Gold '+map.startingGold+' [+ / -]\nWaves '+map.waves+' [PgUp / PgDn]\nInterval '+map.waveInterval+'s [[ / ]]'):u?'HP '+Math.ceil(u.hp)+' / '+Math.ceil(u.maxHp)+'\nATK '+Math.round(u.damage)+'  '+(u.kind==='hero'?'LV '+u.level+'\nMP '+Math.floor(u.mana)+' / '+(150+u.level*10):S.types[u.kind].attack+' / '+S.types[u.kind].armor+'\n'+(S.types[u.kind].flying?'Flying / ':'' )+(S.types[u.kind].antiAir?'Ground + air':'Ground only')):'Left click / drag to select\nRight click to move or attack\nWorkers gather from mines and trees');
-    label('Selection queue',editing?'Regions '+map.regions.length+' / Triggers '+map.triggers.length+' / Page '+(editorPage+1)+'/6\nUndo Ctrl+Z / Save F5 / Play F7':u?.order?.type==='hold'?'Holding position / attacks in range':u?.order?.type==='patrol'?'Patrol / repeats between 1 and 2':route.length?'Route '+route.map(p=>p.type==='attackMove'?'A':'M').join(' > ')+' / '+(route.length-1)+' waiting':u?.built<1?'Building '+Math.floor(u.built*100)+'% / '+({work:'Workers required',inside:'Worker stationed',growth:'Living growth',summon:'Summoning',legacy:'Construction'}[u.construction?.style]||'Construction'):u?.kind==='hall'?'Stronghold tier '+t.tier+(t.research>0?' / upgrading '+Math.ceil(t.research)+'s':''):u?.queue.length?'Training: '+u.queue.map(q=>q.kind+' '+Math.ceil(q.left)+'s').join(', '):u?.kind==='hero'?'XP '+u.xp+'/'+(u.level*90)+' / SP '+u.skillPoints+' / Bag '+u.inventory.length+'/6'+(u.itemCooldown>0?' / Item '+Math.ceil(u.itemCooldown)+'s':''):u?.inventory.length?'Items: '+u.inventory.map(i=>S.items[i].name).join(', '):u?.built<1?'Building '+Math.floor(u.built*100)+'%':'');
-    label('Controls',editing?'Paint LMB   /   F5 save   F6 load   F7 test   /   arrows pan   Home/End zoom':'Arrows pan   Home/End zoom   Space hero   Ctrl+1..9 groups   Shift+click route   F5 save   Esc pause   F10 menu');
+    label('Selection queue',editing?'Regions '+map.regions.length+' / Triggers '+map.triggers.length+' / Page '+(editorPage+1)+'/6\nUndo Ctrl+Z / Save F5 / Play F7':u?.order?.type==='hold'?'Holding position / attacks in range':u?.order?.type==='patrol'?'Patrol / repeats between 1 and 2':route.length?'Route '+route.map(p=>({attackMove:'A',move:'M',build:'B',construct:'B',repair:'R',gather:'G'}[p.type])).join(' > ')+' / '+(route.length-1)+' waiting':u?.built<1?'Building '+Math.floor(u.built*100)+'% / '+({work:'Workers required',inside:'Worker stationed',growth:'Living growth',summon:'Summoning',legacy:'Construction'}[u.construction?.style]||'Construction'):u?.kind==='hall'?'Stronghold tier '+t.tier+(t.research>0?' / upgrading '+Math.ceil(t.research)+'s':''):u?.queue.length?'Training: '+u.queue.map(q=>q.kind+' '+Math.ceil(q.left)+'s').join(', '):u?.kind==='hero'?'XP '+u.xp+'/'+(u.level*90)+' / SP '+u.skillPoints+' / Bag '+u.inventory.length+'/6'+(u.itemCooldown>0?' / Item '+Math.ceil(u.itemCooldown)+'s':''):u?.inventory.length?'Items: '+u.inventory.map(i=>S.items[i].name).join(', '):u?.built<1?'Building '+Math.floor(u.built*100)+'%':'');
+    label('Controls',editing?'Paint LMB   /   F5 save   F6 load   F7 test   /   arrows pan   Home/End zoom':'Arrows pan   Home/End zoom   Space hero   Ctrl+1..9 groups   Shift+click queue   F5 save   Esc pause   F10 menu');
     const icons=['frost','heal','blink','blizzard','blade','heart','boots','edge','storm','charm','attack','shield'];
     const pointer=screenPointer(input);let hint='';
     for(let i=0;i<12;i++){

diff --git a/samples/frostbound-realms/README.md b/samples/frostbound-realms/README.md
@@ -63,7 +63,7 @@ Skirmish 建筑由工人到场启动：Kingdom 工人持续施工，可多工协
 
 框选或控制组最多选择 40 个单位。右键移动与 A 攻击移动按行军方向和兵种射程分配位置，近战在前、远程在后，空中与地面分别编队；单个单位到达实际点击位置。目的地按可达地形、建筑和待命友军调整，地形无法到达时选择本侧空位，整组无法分配时保留原命令。行军途中保存/加载保留各单位目标。寻路只使用当前可见的敌方建筑，接近后发现目标被占用时重新选择附近落点。移动、攻击移动和巡逻支持单位动态避让；其他编队预订的终点也会留出空间，落点被待命友军占用时重新分配。建造/采集等通用指令队列仍待完善。
 
-移动和攻击移动支持 Shift 追加：先下达普通移动，再按住左/右 Shift 右键点击地面追加移动；A 后按住 Shift 左键点击追加攻击移动。每个单位最多 8 个等待落点，整组中任一队列已满则整组追加失败。绿色编号表示移动、橙色表示攻击移动，界面显示首个选中单位的路线及等待数。普通移动/攻击移动、攻击、采集、施工、停止、闪现和死亡会清除后续路线；攻击移动遇敌后会继续原路线。正在采集/施工等非移动工作时，需先发普通移动再追加。Shift 右键直接点中敌人或资源仍执行攻击/采集。旧存档补空队列，新存档与服务器重连保留路线；重连保留原镜头、缩放和有效选择，并显示连接已恢复。
+移动、攻击移动以及工人建造/协建/修理/采集支持左、右 Shift 追加，每单位最多8个等待任务；整组中任一队列已满则整组追加失败。按建筑热键后 Shift 左键放置可连续规划，右键资源或友方工地/损坏建筑可追加对应工作。排队建筑仅记录位置，轮到时重新检查工地、科技、领地和资源并扣费；无法执行的任务跳过并显示提示。采集中有后续任务时，交回一包资源后继续下一项，没有后续任务则持续采集。驻扎工人出建筑后继续工作；自然族转化为建筑时清掉该工人后续任务。绿色编号为移动、橙色为攻击移动、金色为建造/修理、蓝色为采集，界面显示任务缩写 M/A/B/R/G。普通改令、停止、闪现和死亡清空队列；驻守和巡逻需先取消才能排队。存档及服务器重连保留任务、路径、镜头与有效选择。
 
 驻守 H 取消当前路线并原地攻击射程内、未被地形遮挡的敌人，不会追击；S 停止后恢复普通自动迎敌。巡逻 P 后左键指定另一端，各单位从当前位置与编队落点之间往返，遇敌战斗后继续巡逻。蓝色编号显示首个选中单位的两端位置。驻守和巡逻替换已有移动队列，巡逻中需先下达普通移动再追加 Shift 路线；单机存档和联机重连保留巡逻端点。
 
@@ -81,7 +81,7 @@ Skirmish 建筑由工人到场启动：Kingdom 工人持续施工，可多工协
 
 ## 联机
 
-客户端与服务端使用协议 6，单条 JSON 消息上限 512 KiB，旧协议连接会被拒绝；更新时双方需同步。旧单机未完工建筑继续自动建造，新存档保留工人和施工状态。
+客户端与服务端使用协议 7，单条 JSON 消息上限 512 KiB，旧协议连接会被拒绝；更新时双方需同步。旧单机未完工建筑继续自动建造，新存档保留工人和施工状态。
 
 ```powershell
 # 同机测试
@@ -90,7 +90,7 @@ node samples/frostbound-realms/server.mjs
 node samples/frostbound-realms/server.mjs --host 0.0.0.0 --port 7788
 ```
 
-多人菜单按 I 编辑服务器 `IPv4:端口`，F1 创建 RTS 房间、F2 创建 MOBA 房间、F3 浏览房间。大厅 H 更换英雄，更换后双方需要重新准备。双方 Enter 准备，房主再次 Enter 开局。协议版本为 6，客户端和服务器必须配套更新，旧协议连接会被拒绝。服务器以 10 Hz 推进模拟，客户端仅提交命令；拒绝重复序号、操作敌方单位、不可见目标与非法坐标，限制连接、请求大小和发送频率。未提供公网匹配、NAT 穿透、账户系统或加密传输；当前目标为本机与可信局域网。
+多人菜单按 I 编辑服务器 `IPv4:端口`，F1 创建 RTS 房间、F2 创建 MOBA 房间、F3 浏览房间。大厅 H 更换英雄，更换后双方需要重新准备。双方 Enter 准备，房主再次 Enter 开局。协议版本为 7，客户端和服务器必须配套更新，旧协议连接会被拒绝。服务器以 10 Hz 推进模拟，客户端仅提交命令；拒绝重复序号、操作敌方单位、不可见目标与非法坐标，限制连接、请求大小和发送频率。未提供公网匹配、NAT 穿透、账户系统或加密传输；当前目标为本机与可信局域网。
 
 ## 资源与引擎扩展
 
